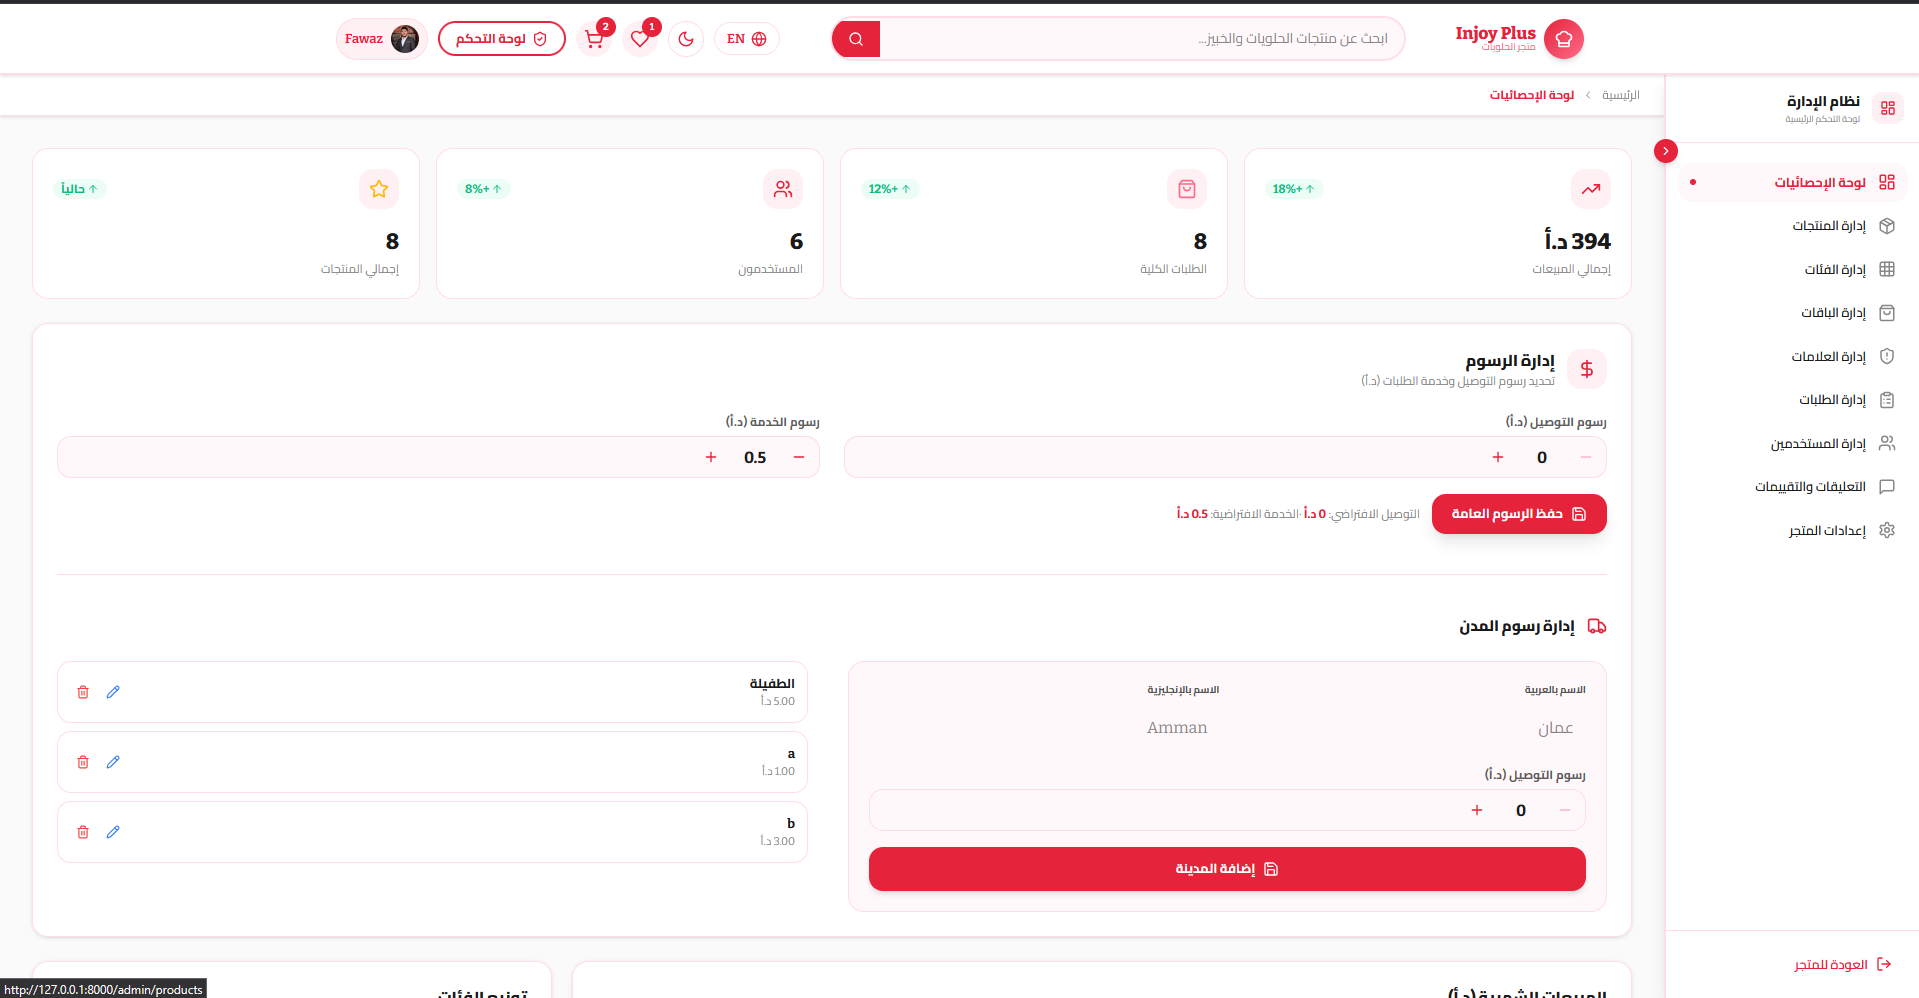
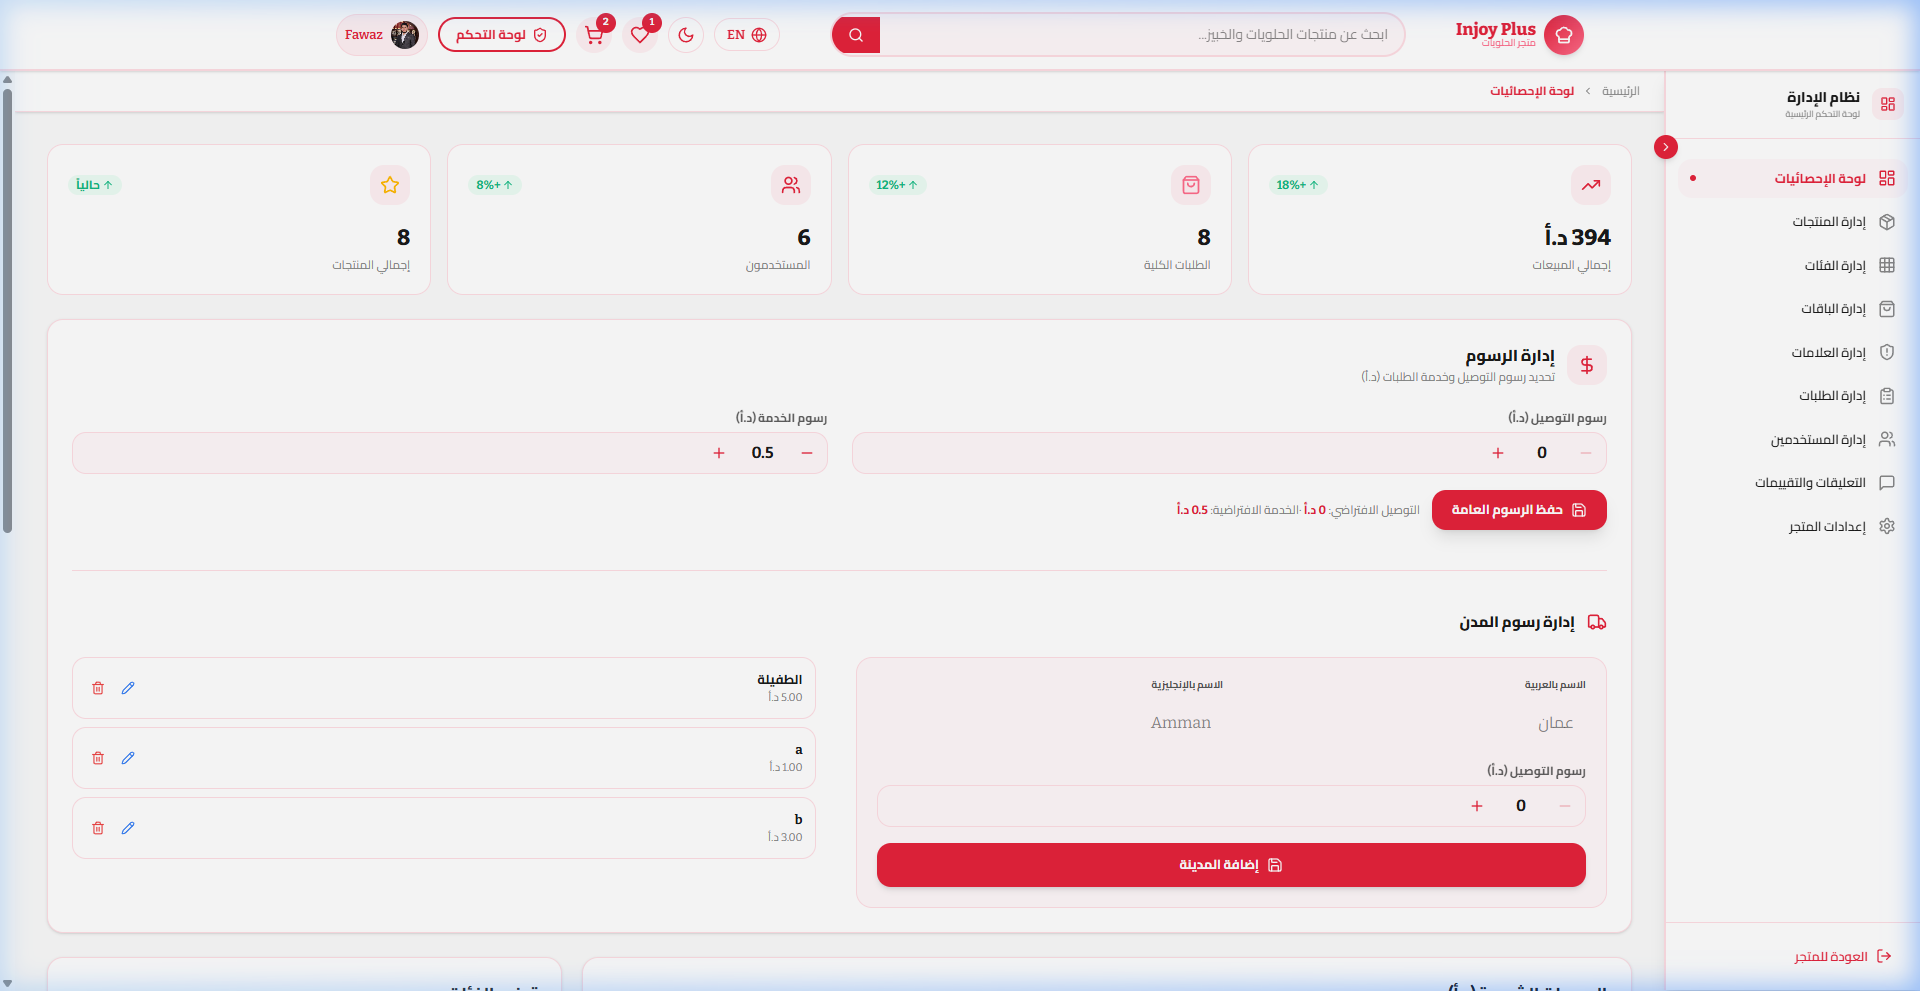
Added actual screenshot for Admin Dashboard in Sweets store README

diff --git a/Sweets store/README.md b/Sweets store/README.md
@@ -44,7 +44,7 @@
 
 | Admin Dashboard | Wishlist |
 |:---:|:---:|
-| *Modern Control Panel* | <img src="./screenshots/Wish%20List%20page.png" width="400"> |
+| <img src="./screenshots/admin%20dashboard.png" width="400"> | <img src="./screenshots/Wish%20List%20page.png" width="400"> |
 
 ---
 
